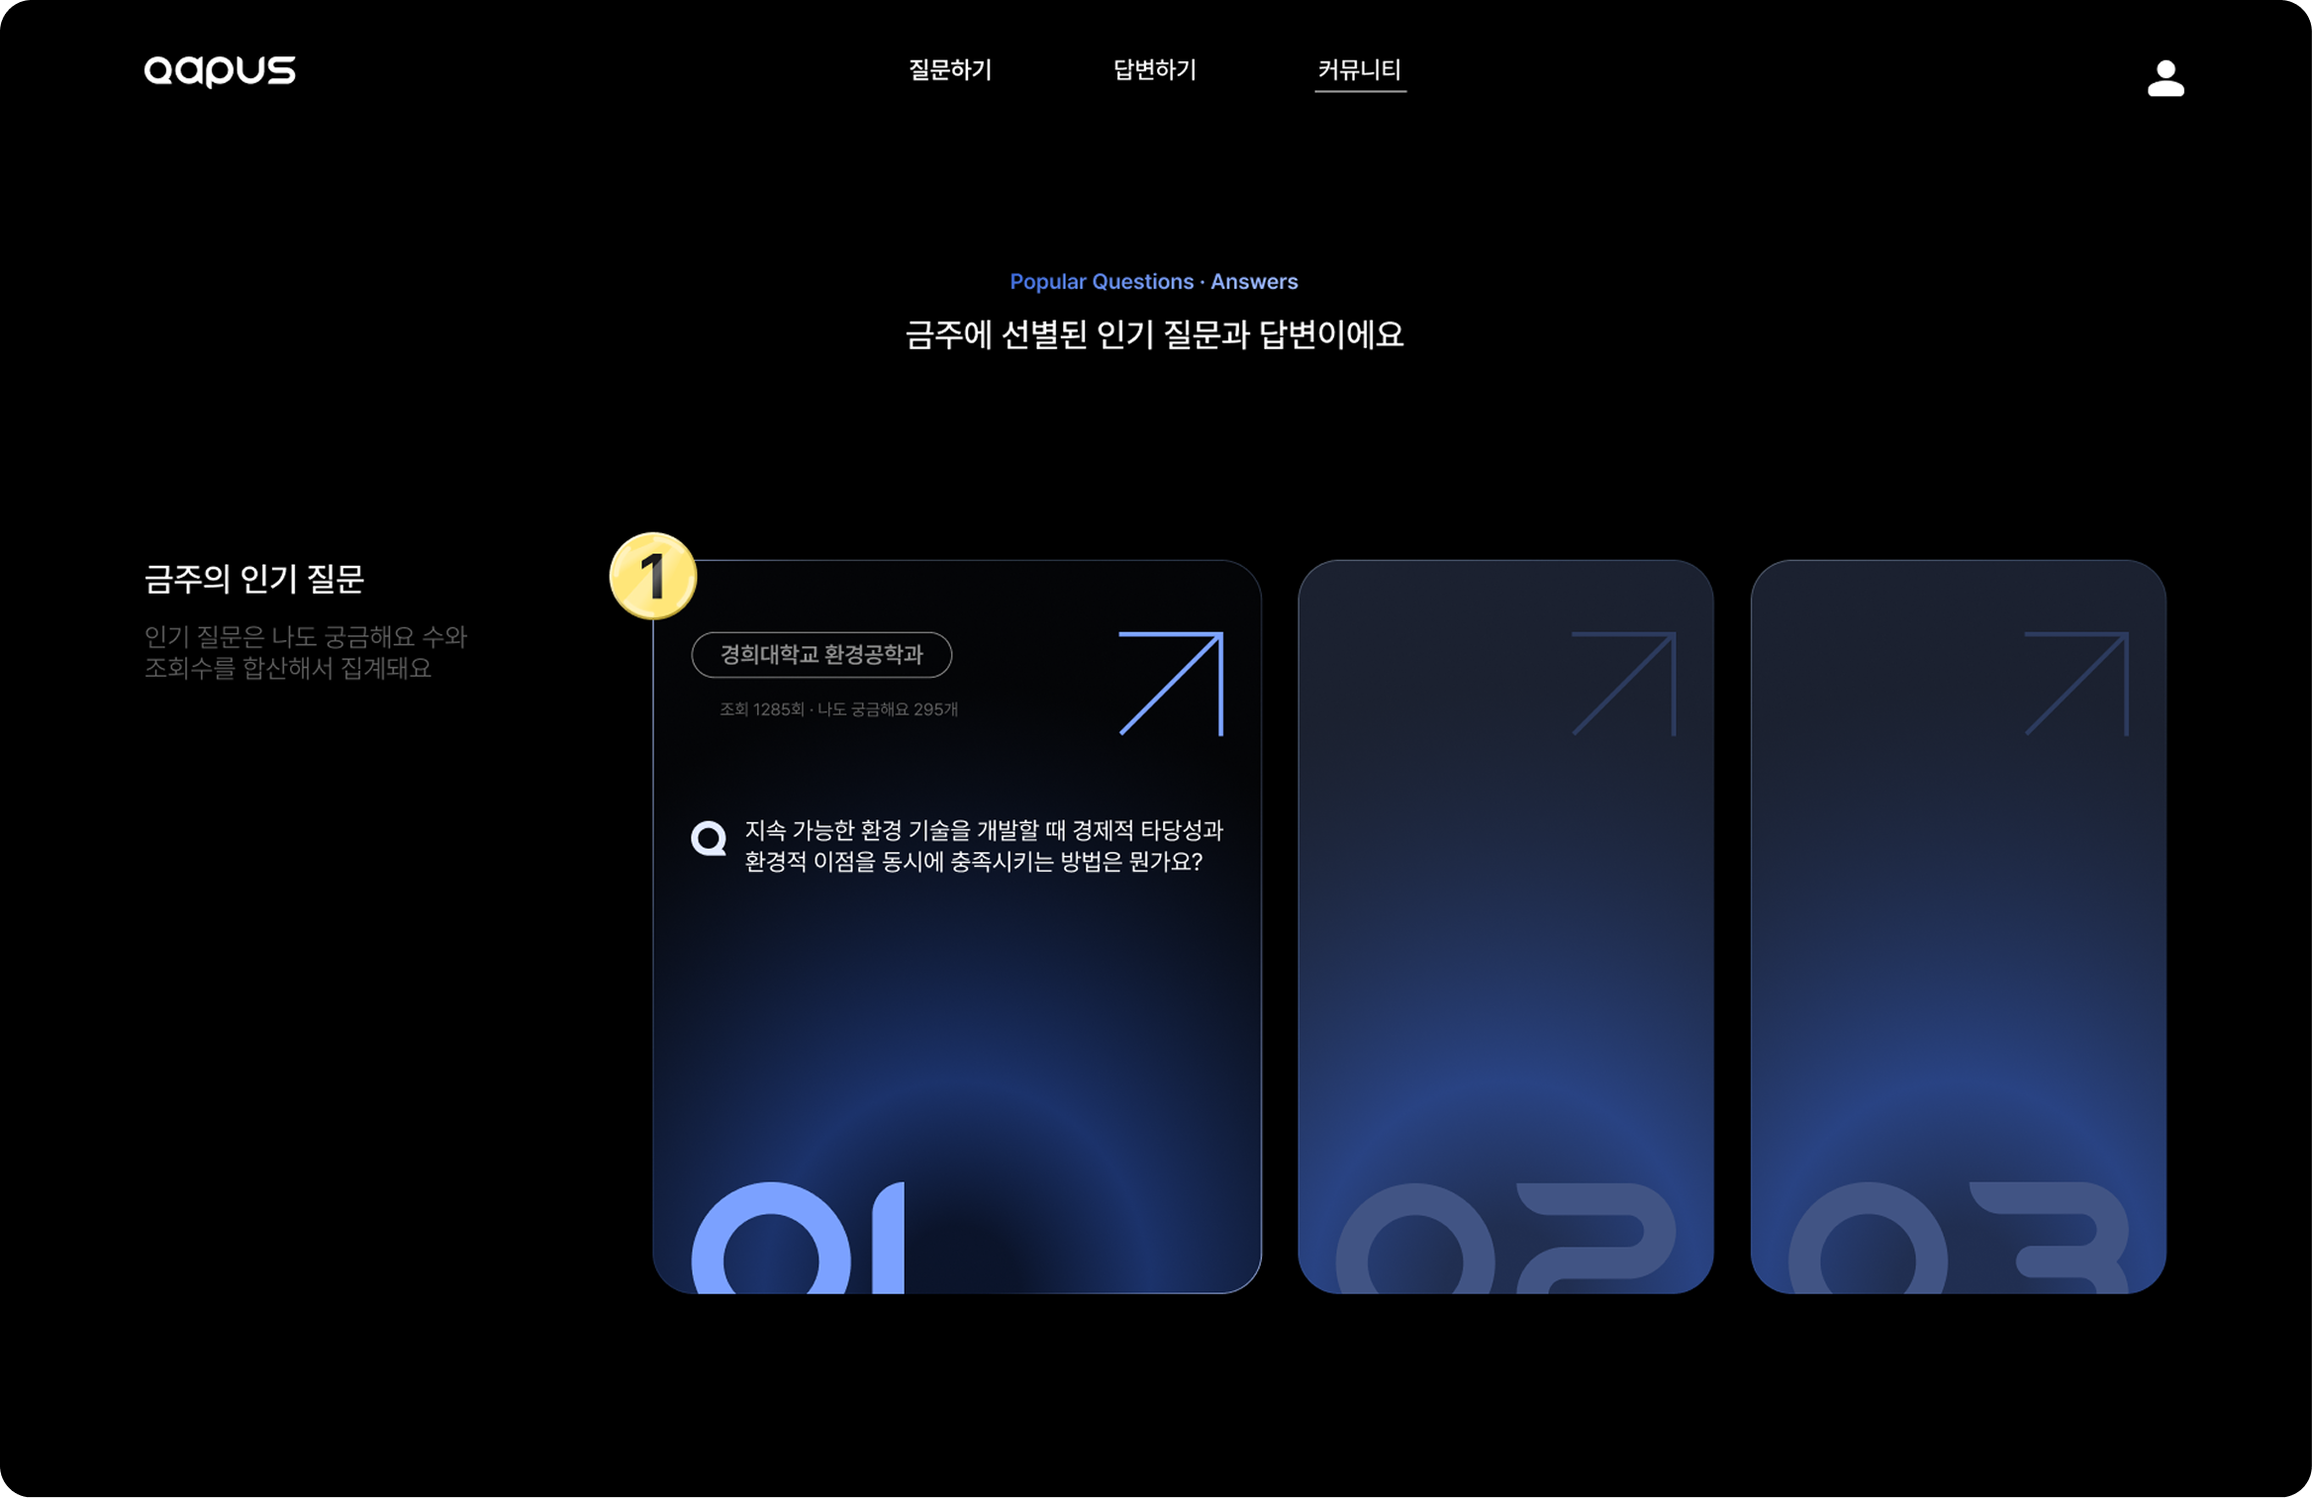
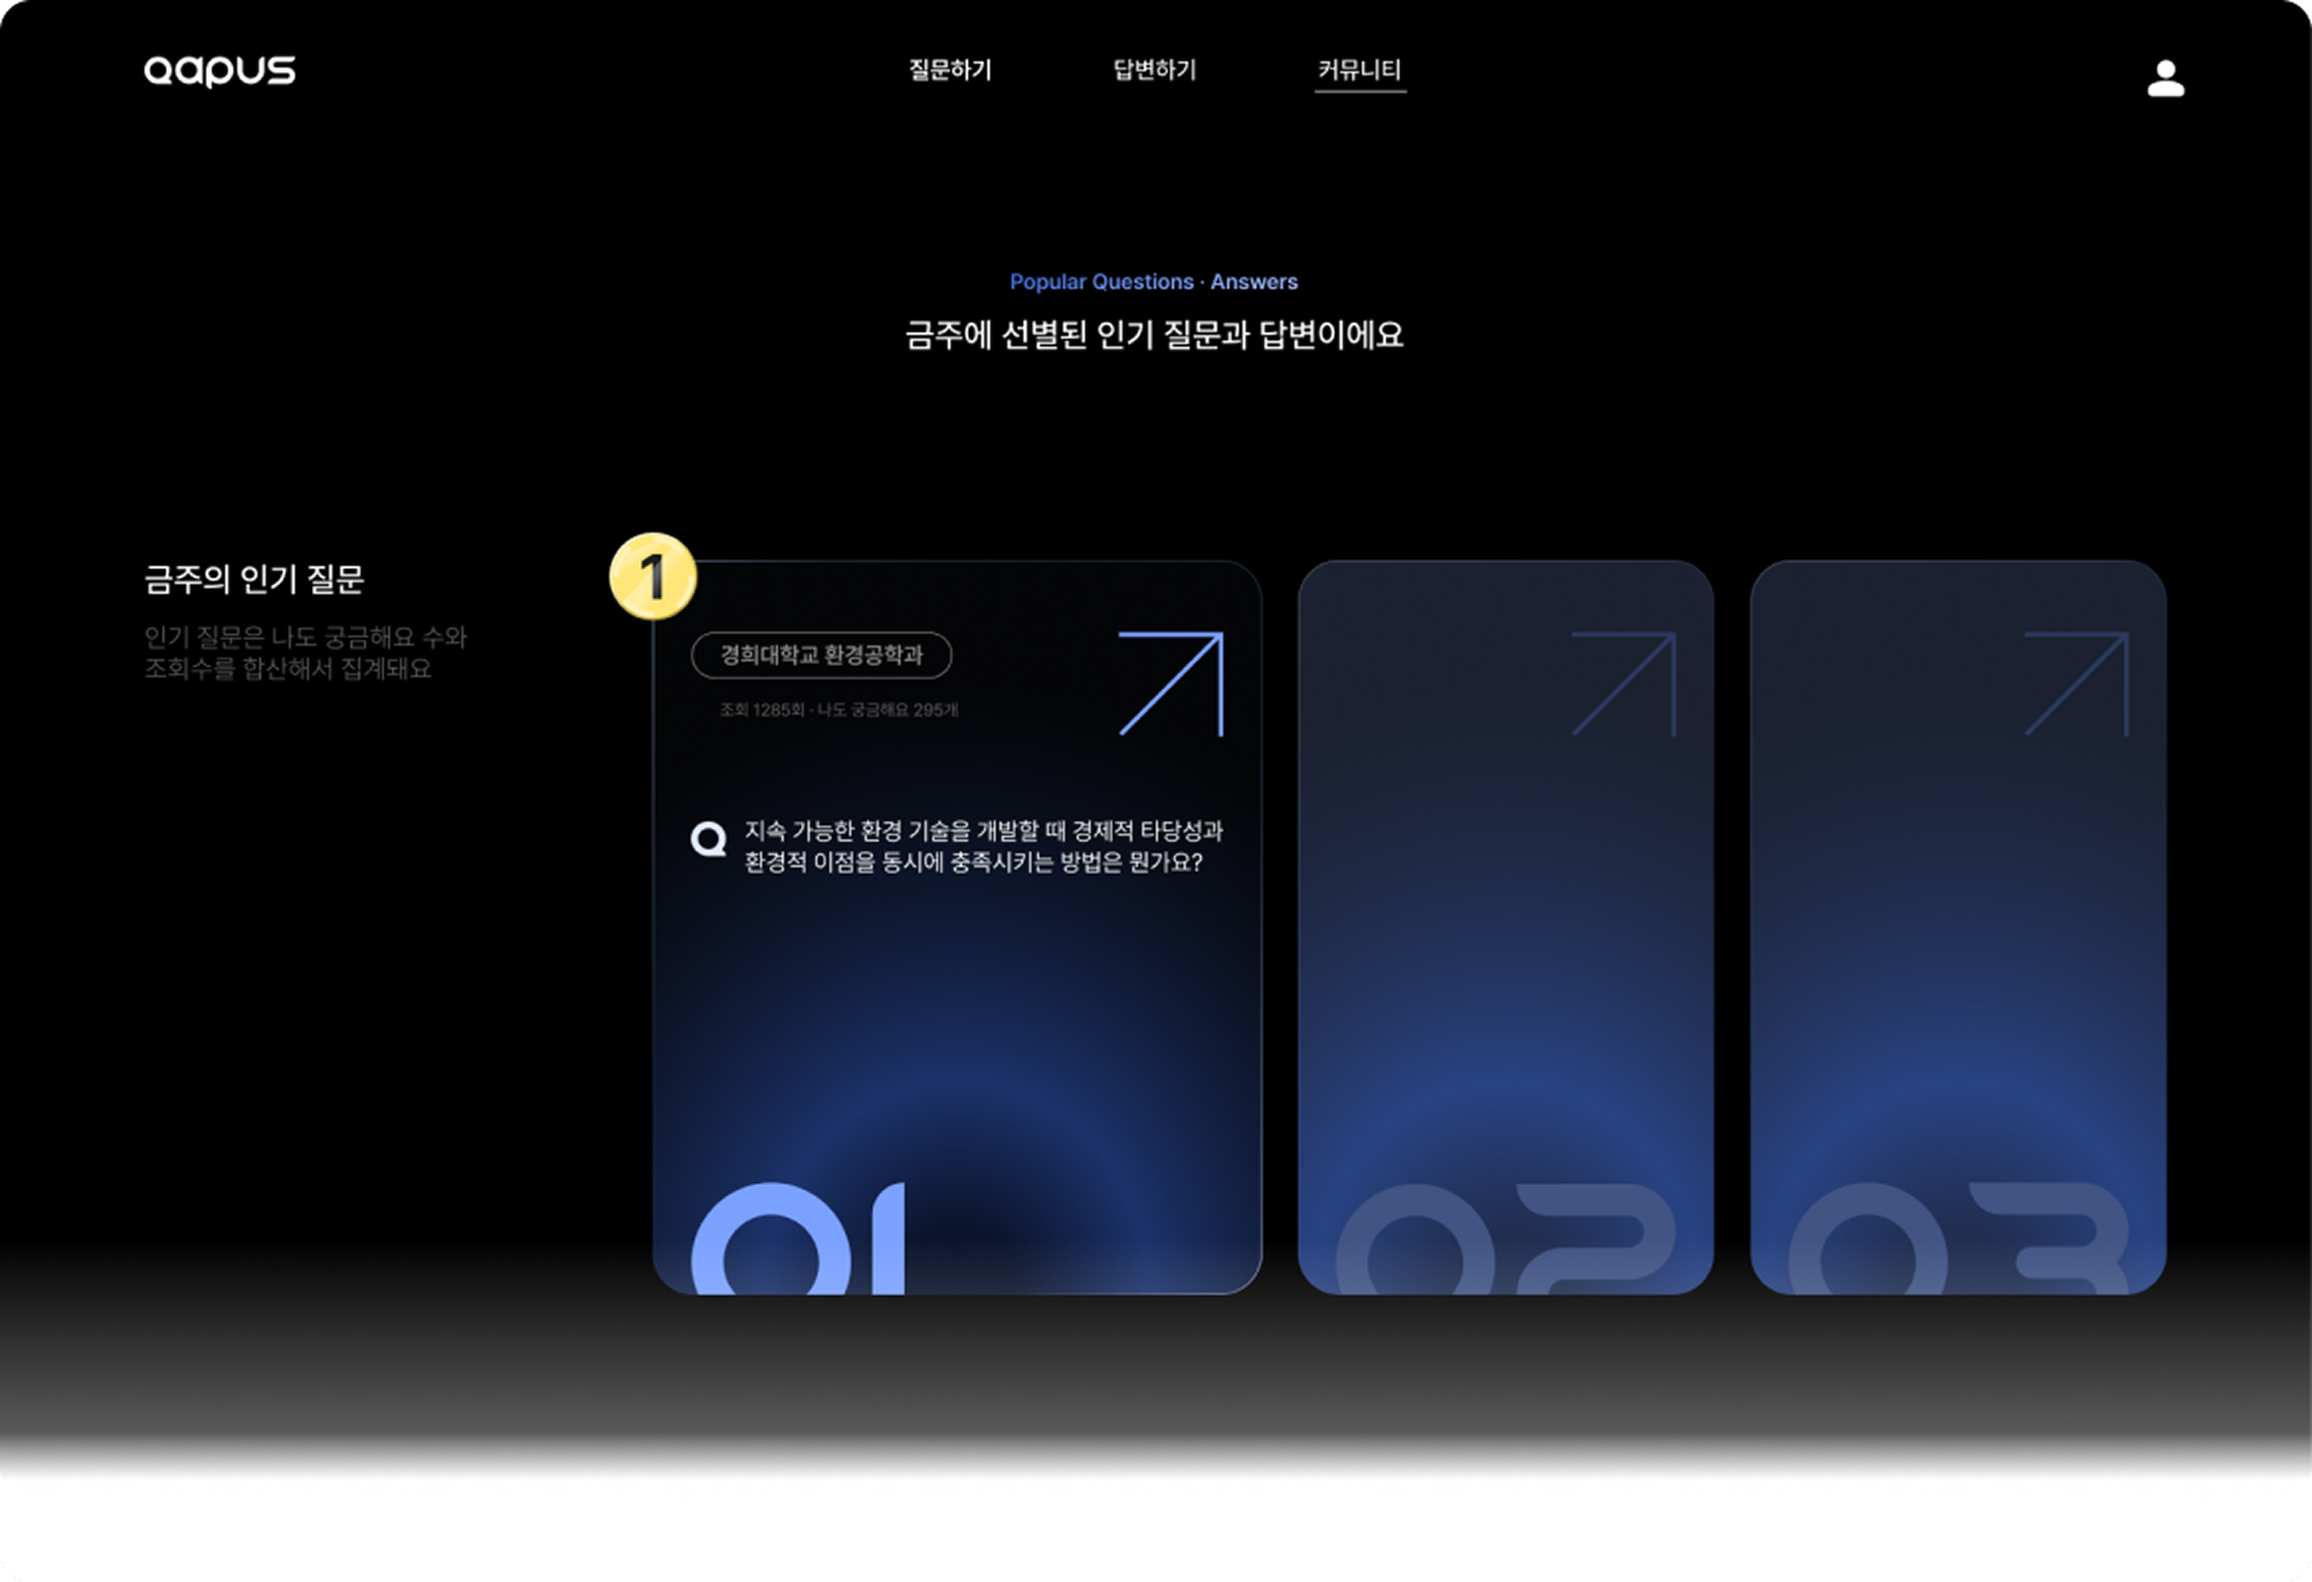
chore: 오타 수정 및 이미지 교체

diff --git a/app/guestMain/_components/Page1/index.tsx b/app/guestMain/_components/Page1/index.tsx
@@ -4,7 +4,7 @@ import BottomAnimation from './BottomAnimation';
 
 export default function Page1() {
   return (
-    <div className="flew flew-col relative aspect-[16/9] w-screen items-center justify-center overflow-hidden">
+    <div className="flxw flex-col relative aspect-[16/9] w-screen items-center justify-center overflow-hidden">
       <Background />
 
       <div className="absolute top-0 z-10 flex h-full w-full flex-col items-center justify-center overflow-hidden">
